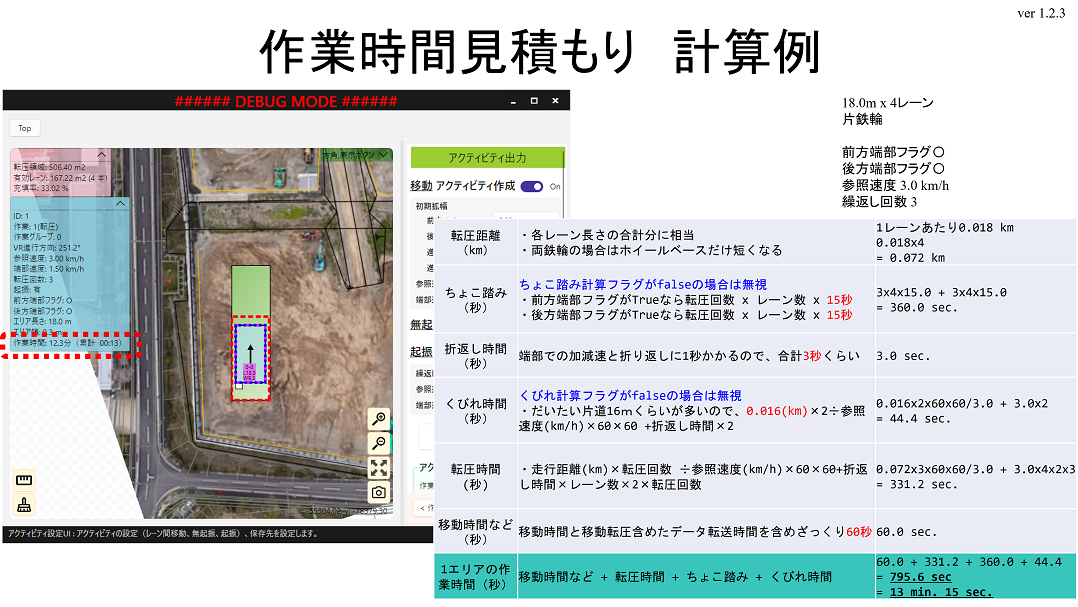
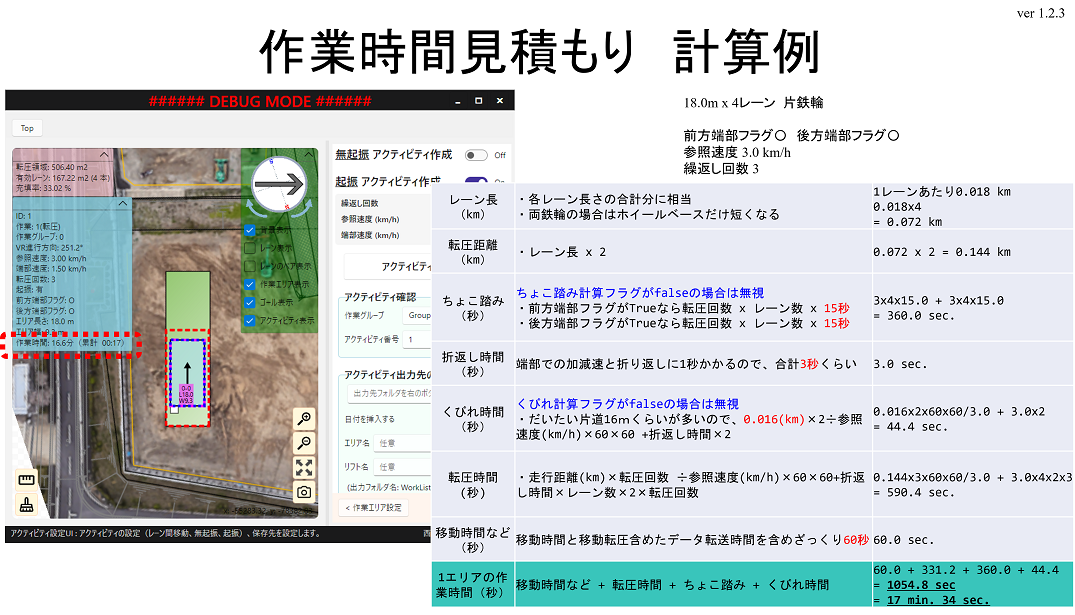
update readme

diff --git a/README.md b/README.md
@@ -88,3 +88,5 @@
   - 各アクティビティの概算作業時間を計算し、出力する機能を追加
 	- ローラのデータ構造に、作業時間計算用のプロパティを追加。`MachineInfo.json`にも反映
   - その他UIの軽微な修正
+- ver 1.2.4
+  - 作業時間概算の計算方法を修正
